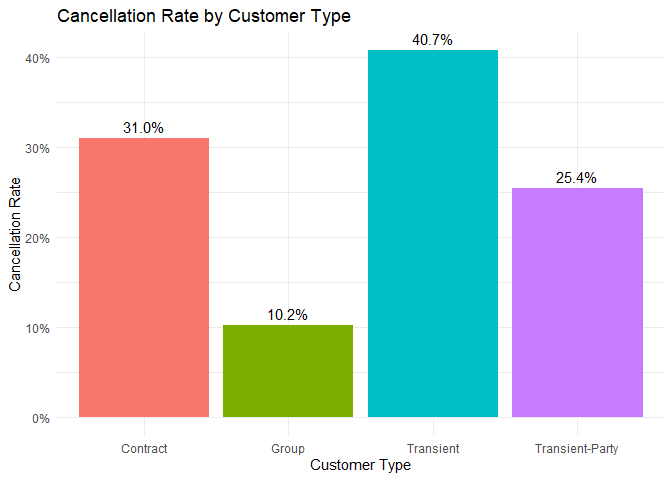
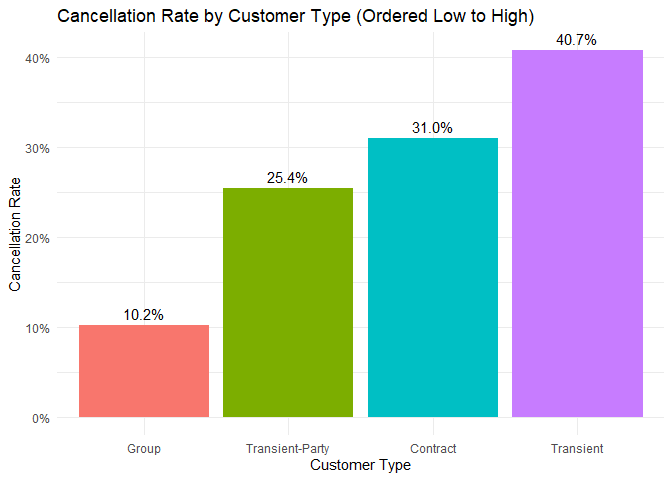
Added another question and finished the fifth one.

diff --git a/README.md b/README.md
@@ -17,7 +17,8 @@ factors to improve their profit and customer satisfaction.
 - What makes guests more likely to cancel their bookings?  
 - How does the average daily rate affect bookings?  
 - How does number of guests affect hotel bookings?  
-- What affects how many times bookings are changed?
+- What affects how many times bookings are changed?  
+- Where are most visitors coming from?
 
 By investigating these questions we hope to demonstrate useful data
 about what factors affect hotel bookings.
@@ -208,6 +209,7 @@ data <- data %>%
     `arrival_date_year` = as.character(`arrival_date_year`),
     `arrival_date_week_number` = as.character(`arrival_date_week_number`),
     `arrival_date_day_of_month` = as.character(`arrival_date_day_of_month`),
+    `is_repeated_guest` = as.character(`is_repeated_guest`)
   )
 ```
 
@@ -485,13 +487,14 @@ data %>%
     cancel_rate = mean(is_canceled),
     .groups = "drop"
   ) %>%
+  mutate(customer_type = reorder(customer_type, cancel_rate)) %>%  # reorder levels
   ggplot(aes(x = customer_type, y = cancel_rate, fill = customer_type)) +
   geom_bar(stat = "identity") +
   geom_text(aes(label = percent(cancel_rate, accuracy = 0.1)), 
             vjust = -0.5, size = 4) +
   scale_y_continuous(labels = percent_format()) +
   labs(
-    title = "Cancellation Rate by Customer Type",
+    title = "Cancellation Rate by Customer Type (Ordered Low to High)",
     x = "Customer Type",
     y = "Cancellation Rate"
   ) +
@@ -814,8 +817,9 @@ data %>%
   theme_minimal()
 ```
 
-![](README_files/figure-gfm/unnamed-chunk-15-1.png)<!-- --> This shows
-cancellation rate by number of changes.
+![](README_files/figure-gfm/unnamed-chunk-15-1.png)<!-- -->
+
+This shows cancellation rate by number of changes.
 
 This shows booking changes by hotel type.
 
@@ -846,3 +850,147 @@ other than that they don’t seem to be very correlated.
 
 How does lead time correlate to booking changes? We hypothesize the
 longer lead time is the more booking changes will be made.
+
+``` r
+data %>%
+  mutate(lead_time_bin = cut(lead_time, breaks = 20)) %>%  # auto-binning into 20 ranges
+  group_by(lead_time_bin) %>%
+  summarise(avg_booking_changes = mean(booking_changes), .groups = 'drop') %>%
+  ggplot(aes(x = lead_time_bin, y = avg_booking_changes)) +
+  geom_bar(stat = "identity") +
+  labs(
+    title = "Average Booking Changes by Lead Time (Binned)",
+    x = "Lead Time (Binned)",
+    y = "Average Number of Booking Changes"
+  ) +
+  theme_minimal() +
+  theme(axis.text.x = element_text(angle = 45, hjust = 1))
+```
+
+![](README_files/figure-gfm/unnamed-chunk-17-1.png)<!-- -->
+
+As shown in the graph there doesn’t seem to be too much change in
+booking changes with lead time. It stays less than .5 average booking
+changes until we get to the 700 to 738 day lead time range, then it
+significantly spikes and the average number of booking changes is 3.
+However, there are very few values in that range, so likely it was just
+one booking that was changed 3 times.
+
+The following graph demonstrates the relationship between whether a
+customer is a returning guest and the number of booking changes made.
+
+``` r
+  ggplot(data, aes(x = is_repeated_guest, y = booking_changes, fill = is_repeated_guest)) +
+  stat_summary(fun = mean, geom = "bar", width = 0.6) +
+  labs(
+    title = "Average Number of Booking Changes by Guest Type",
+    x = "Guest Type",
+    y = "Average Booking Changes"
+  ) +
+  theme_minimal() +
+  theme(legend.position = "none")
+```
+
+![](README_files/figure-gfm/unnamed-chunk-18-1.png)<!-- -->
+
+As shown in the graph we see that repeated guests have a slightly higher
+chance of changing their bookings. However, both have a small average
+number of booking changes with repeating guests being around 0.26
+changes made on average and new guests being around 0.22 changes made on
+average.
+
+The following graph shows customer type vs number of booking changes
+made.
+
+``` r
+# this reorders so that they go lowest to highest average num of booking changes
+data <- data %>%
+  group_by(customer_type) %>%
+  mutate(avg_changes = mean(booking_changes, na.rm = TRUE)) %>%
+  ungroup() %>%
+  mutate(customer_type = reorder(customer_type, avg_changes))
+
+
+ggplot(data, aes(x = customer_type, y = booking_changes, fill = customer_type)) +
+  stat_summary(fun = mean, geom = "bar", width = 0.6) +
+  labs(
+    title = "Average Number of Booking Changes by Customer Type",
+    x = "Customer Type",
+    y = "Average Booking Changes"
+  ) +
+  theme_minimal() +
+  theme(legend.position = "none")
+```
+
+![](README_files/figure-gfm/unnamed-chunk-19-1.png)<!-- -->
+
+This graph shows that transient-party customer types are more likely to
+make more booking changes than the others with an average number of
+booking changes of about 0.35, and contract customers make the least
+amount of booking changes with an average around 0.11.
+
+Now we investigate the relationship between deposit type and number of
+booking changes.
+
+``` r
+data %>%
+  group_by(deposit_type) %>%
+  summarise(
+    avg_booking_changes = mean(booking_changes, na.rm = TRUE),
+    .groups = "drop"
+  ) %>%
+  mutate(deposit_type = reorder(deposit_type, avg_booking_changes)) %>%
+  ggplot(aes(x = deposit_type, y = avg_booking_changes, fill = deposit_type)) +
+  geom_bar(stat = "identity") +
+  geom_text(aes(label = round(avg_booking_changes, 2)), 
+            vjust = -0.5, size = 4) +
+  labs(
+    title = "Average Number of Booking Changes by Deposit Type",
+    x = "Deposit Type",
+    y = "Average Booking Changes"
+  ) +
+  theme_minimal() +
+  theme(legend.position = "none")
+```
+
+![](README_files/figure-gfm/unnamed-chunk-20-1.png)<!-- -->
+
+As you can see, refundable deposit types have a higher average number of
+changes made to the bookings at 0.59 on average, wherease no deposit is
+next at 0.25, and non refund has a very low number of changes on average
+at 0.01.
+
+### Where are most visitors coming from?
+
+To answer this question we observe the country of origin of bookings
+made.
+
+``` r
+country_counts <- data %>%
+  group_by(country) %>%
+  summarise(count = n()) %>%
+  arrange(desc(count)) %>%
+  top_n(10, count)  # limit to top 10 countries or else the graph is too big 
+
+ggplot(country_counts, aes(x = reorder(country, -count), y = count, fill = country)) +
+  geom_bar(stat = "identity") +
+  theme_minimal() +
+  labs(
+    title = "Top Countries by Number of Hotel Bookings",
+    x = "Country",
+    y = "Number of Bookings"
+  ) +
+  theme(axis.text.x = element_text(angle = 45, hjust = 1)) +
+  scale_fill_viridis_d()
+```
+
+![](README_files/figure-gfm/unnamed-chunk-21-1.png)<!-- -->
+
+This information would be useful for these hotels to know which
+countries to focus their advertising on. As shown in the graph, the top
+10 countries for number of bookings made is Portugal, the UK, France,
+Spain, Germany, Italy, Ireland, Belgium, Brazil, and the Netherlands.
+However, Portugal by FAR has the most bookings with almost 5,000, and
+the next largest is only around 1200 to 1300 bookings.
+
+### Conclusion
